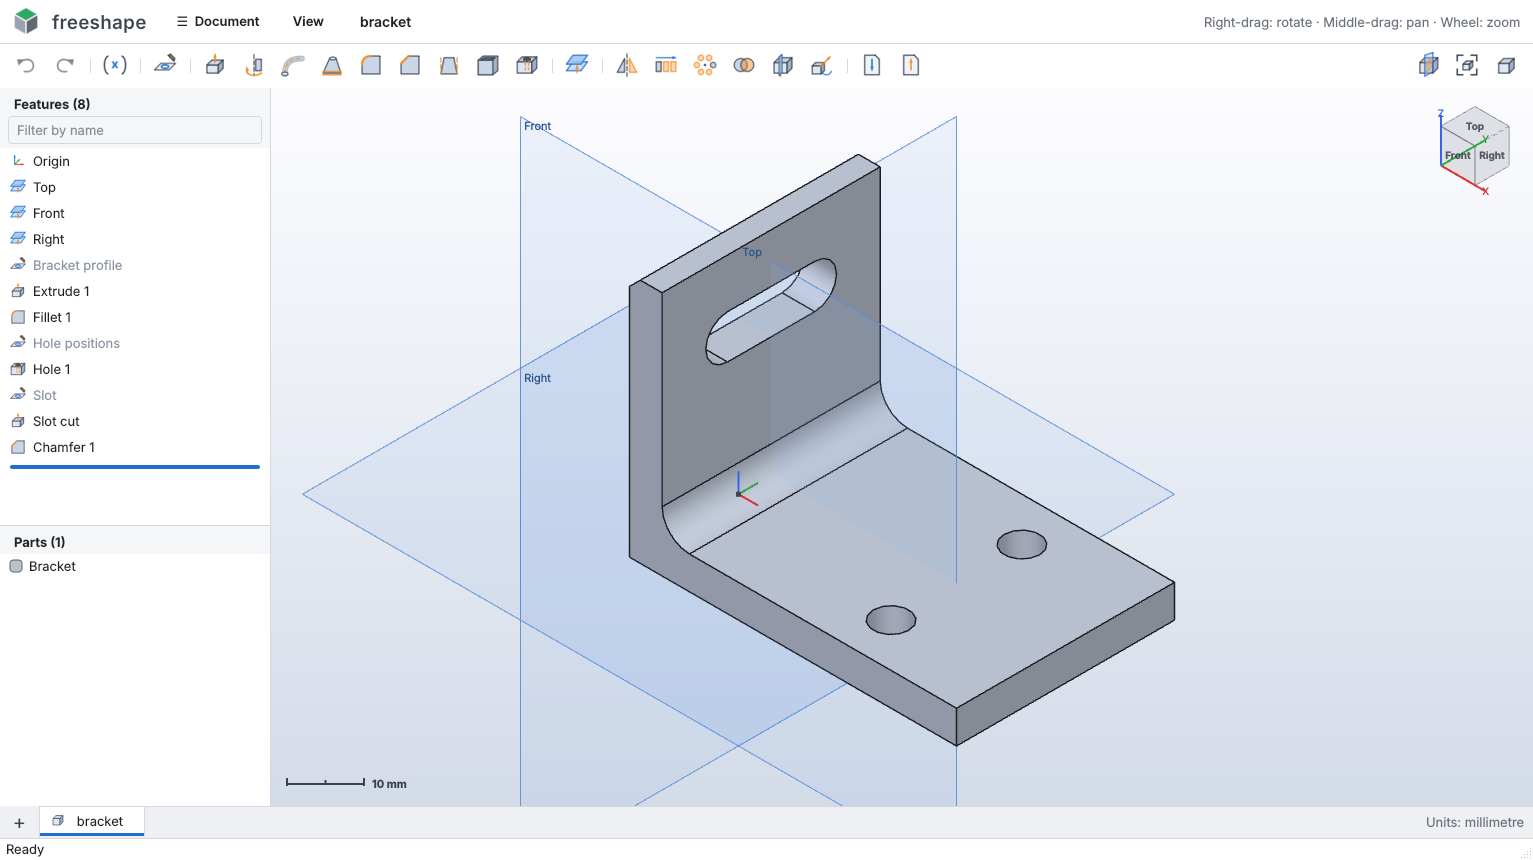
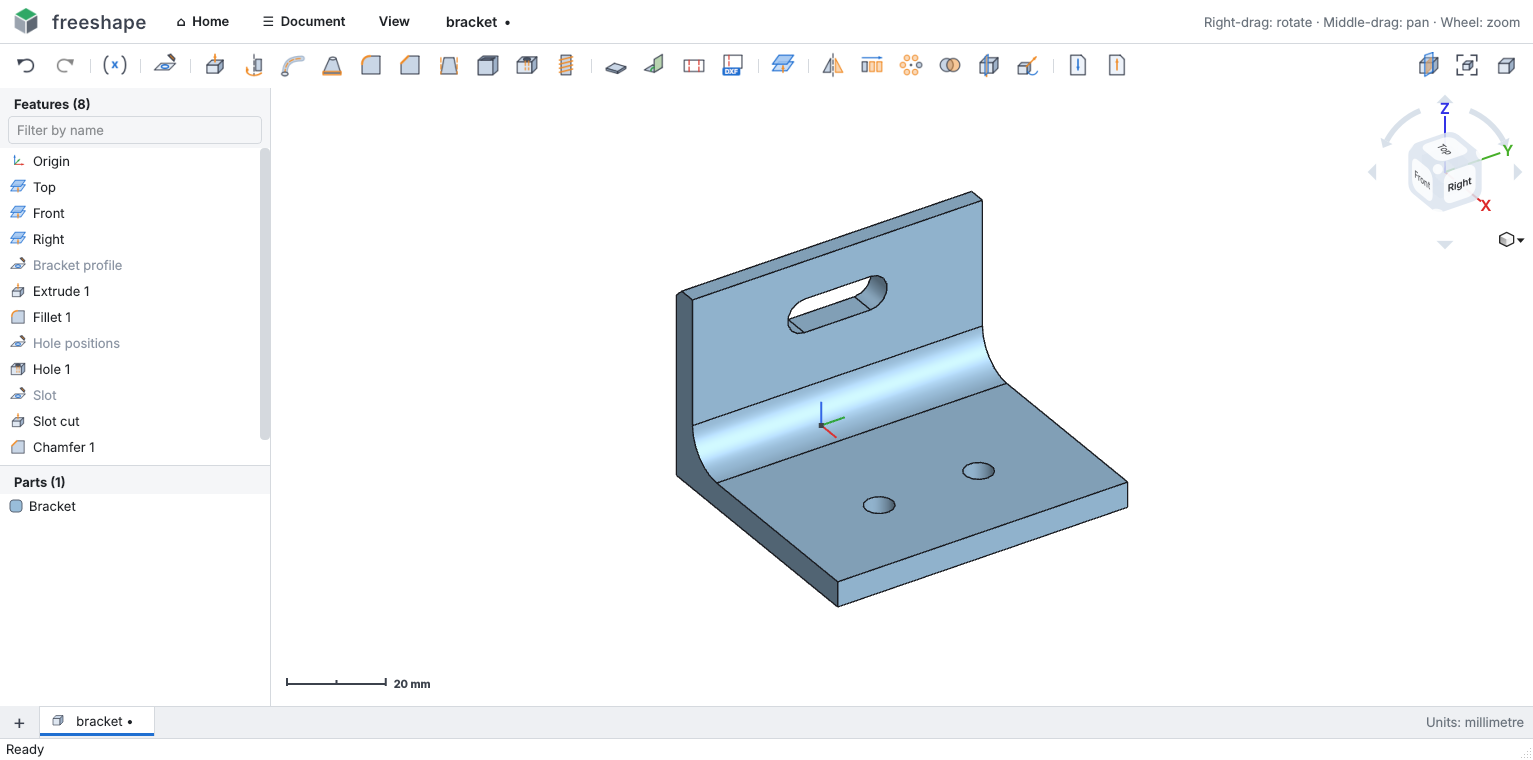
New screenshots and demo GIF

diff --git a/freeshape/bootstrap.py b/freeshape/bootstrap.py
@@ -70,8 +70,27 @@ def _create_venv():
     _say("First run: creating a private Python environment in .venv …")
     try:
         venv.EnvBuilder(with_pip=True, clear=False, upgrade_deps=False).create(VENV)
-    except Exception as e:  # e.g. Debian/Ubuntu without python3-venv
-        _say(f"Could not create the environment: {e}")
+        return
+    except Exception as e:  # e.g. a half-made .venv left by an earlier attempt, or no python3-venv
+        first = e
+    # a half-made or locked .venv from an earlier attempt: start it again from scratch, once
+    _say("That didn't work - removing the half-made .venv and trying again …")
+    try:
+        import shutil
+        import stat
+
+        def _unlock(func, path, _exc):
+            os.chmod(path, stat.S_IWRITE)
+            func(path)
+        shutil.rmtree(VENV, onerror=_unlock)
+        venv.EnvBuilder(with_pip=True, clear=False, upgrade_deps=False).create(VENV)
+        return
+    except Exception as e:
+        _say(f"Could not create the environment: {e}  (first try: {first})")
+        if sys.platform.startswith("win"):
+            _say("Close any FreeShape or Python windows, delete the .venv folder inside the FreeShape folder, "
+                 "and run this again. If the folder is on the Desktop or in OneDrive, try a folder such as "
+                 "C:\\FreeShape instead.")
         if sys.platform.startswith("linux"):
             _say("On Debian/Ubuntu install it with:  sudo apt install python3-venv   then run again.")
         sys.exit(1)

diff --git a/README.md b/README.md
@@ -6,7 +6,7 @@ make 2D drawings and sheet-metal flat patterns — all on your own computer, no 
 Geometry is real B-rep solid modelling on the OpenCascade kernel (the same open-source kernel FreeCAD uses),
 so exports are proper STEP solids, and drawings / flat patterns export to DXF for AutoCAD and laser cutting.
 
-![FreeShape](docs/screenshot.png)
+![FreeShape demo: change a number and the part rebuilds, then a 2D drawing with dimensions](docs/images/freeshape_demo.gif)
 
 ## Why I made it
 
@@ -42,9 +42,9 @@ real parts.
 - **Feels like Onshape** — view cube, home page with recent projects, mouse controls, dark / light theme,
   autosave and crash recovery, a Windows installer with file icons.
 
-| Assemblies | Drawings | Sheet metal |
-|---|---|---|
-| ![](docs/images/assembly.png) | ![](docs/images/drawing.png) | ![](docs/images/sheet_metal.png) |
+| Part Studio | Assemblies | Drawings | Sheet metal (folded and flat) |
+|---|---|---|---|
+| ![](docs/screenshot.png) | ![](docs/images/assembly.png) | ![](docs/images/drawing.png) | ![](docs/images/sheet_metal.png) |
 
 ## Install and run
 
